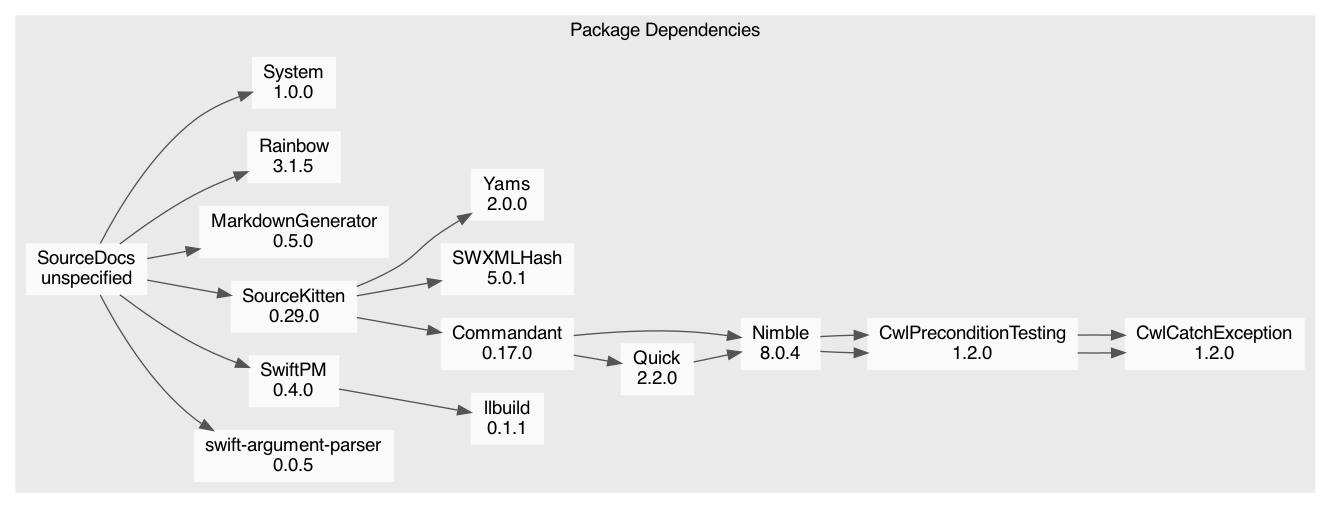
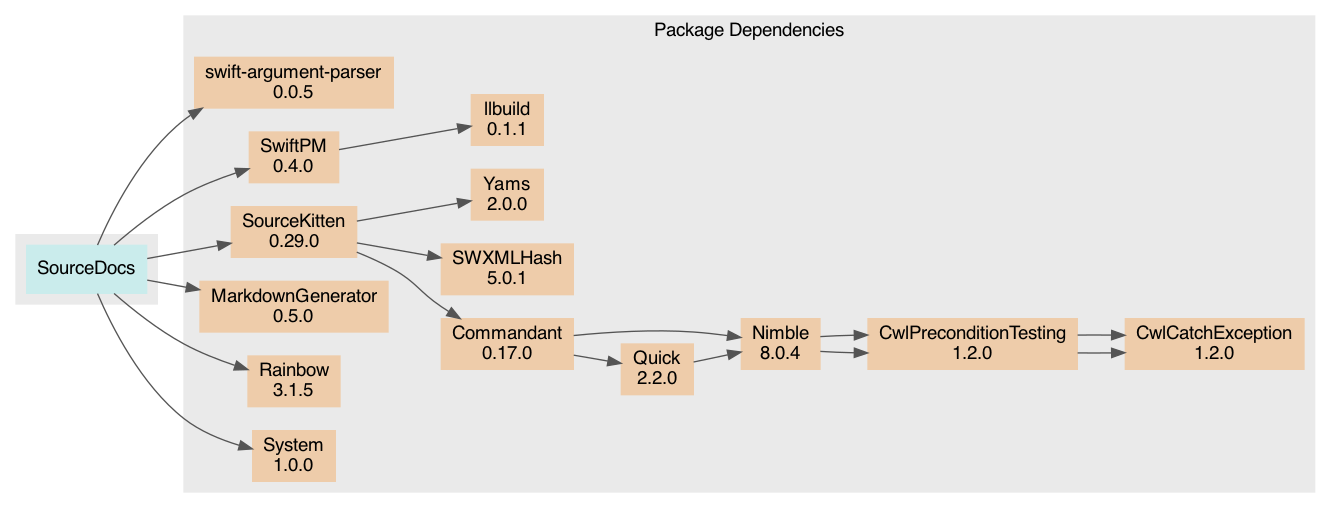
Add flag to toggle clusters on/off (#55)
#### Breaking
- None

#### Enhancements
- Add flag to toggle clusters on/off (for dependency graphs)

#### Bug Fixes
- None

diff --git a/Sources/SourceDocsLib/PackageProcessor/ModuleGraphGenerator.swift b/Sources/SourceDocsLib/PackageProcessor/ModuleGraphGenerator.swift
@@ -11,12 +11,12 @@ final class ModuleGraphGenerator: GraphGenerator {
 
     let basePath: URL
     let packageDump: PackageDump
-    let canRenderDOT: Bool
+    var canRenderDOT = true
+    var clustersEnabled = true
 
-    init(basePath: URL, packageDump: PackageDump, canRenderDOT: Bool) {
+    init(basePath: URL, packageDump: PackageDump) {
         self.basePath = basePath
         self.packageDump = packageDump
-        self.canRenderDOT = canRenderDOT
     }
 
     func run() throws {
@@ -48,6 +48,12 @@ final class ModuleGraphGenerator: GraphGenerator {
             }
         }
 
+        let clusters = [
+            cluster(with: regularNodes, name: "Regular", label: "Program Modules", color: "#caecec"),
+            cluster(with: testNodes, name: "Test", label: "Test Modules", color: "#aaccee"),
+            cluster(with: externalNodes, name: "External", label: "External Dependencies", color: "#eeccaa")
+        ]
+
         return """
         digraph ModuleDependencyGraph {
             rankdir = LR
@@ -55,11 +61,9 @@ final class ModuleGraphGenerator: GraphGenerator {
             node [shape=box, fontname="Helvetica", style=filled]
             edge [color="#545454"]
 
-            \(cluster(with: regularNodes, name: "Regular", label: "Program Modules", color: "#caecec"))
-            \(cluster(with: testNodes, name: "Test", label: "Test Modules", color: "#aaccee"))
-            \(cluster(with: externalNodes, name: "External", label: "External Dependencies", color: "#fafafa"))
+            \(indented: clusters.joined(separator: "\n"))
 
-            \(edges.joined(separator: "\n    "))
+            \(indented: edges.joined(separator: "\n"))
         }
         """
     }
@@ -68,11 +72,14 @@ final class ModuleGraphGenerator: GraphGenerator {
         if nodes.isEmpty {
             return ""
         }
+
+        let clusterPrefix = clustersEnabled ? "cluster" : ""
+
         return """
-        subgraph cluster\(name) {
+        subgraph \(clusterPrefix)\(name) {
             label = "\(label)"
             node [color="\(color)"]
-            \(nodes.joined(separator: "\n    "))
+            \(indented: nodes.joined(separator: "\n"))
         }
         """
     }

diff --git a/Sources/SourceDocsLib/PackageProcessor/DependencyGraphGenerator.swift b/Sources/SourceDocsLib/PackageProcessor/DependencyGraphGenerator.swift
@@ -11,12 +11,12 @@ final class DependencyGraphGenerator: GraphGenerator {
 
     let basePath: URL
     let dependencyTree: PackageDependency
-    let canRenderDOT: Bool
+    var canRenderDOT = true
+    var clustersEnabled = true
 
-    init(basePath: URL, dependencyTree: PackageDependency, canRenderDOT: Bool) {
+    init(basePath: URL, dependencyTree: PackageDependency) {
         self.basePath = basePath
         self.dependencyTree = dependencyTree
-        self.canRenderDOT = canRenderDOT
     }
 
     func run() throws {
@@ -42,16 +42,24 @@ final class DependencyGraphGenerator: GraphGenerator {
     func generateDOT(from dependencyTree: PackageDependency) -> String {
         let edges = extractEdges(from: dependencyTree)
 
+        let clusterPrefix = clustersEnabled ? "cluster" : ""
+
         let graph = """
         digraph PackageDependencyGraph {
             rankdir = LR
             graph [fontname="Helvetica-light", style = filled, color = "#eaeaea"]
-            node [shape=box, fontname="Helvetica", style=filled, color="#fafafa"]
+            node [shape=box, fontname="Helvetica", style=filled]
             edge [color="#545454"]
 
-            subgraph cluster {
+            subgraph \(clusterPrefix)Package {
+                node [color="#caecec"]
+                \(dependencyTree.nodeTitle)
+            }
+
+            subgraph \(clusterPrefix)Dependencies {
                 label = "Package Dependencies"
-                \(edges.joined(separator: "\n        "))
+                node [color="#eeccaa"]
+                \(indented: edges.joined(separator: "\n"))
             }
         }
         """
@@ -69,6 +77,9 @@ final class DependencyGraphGenerator: GraphGenerator {
 
 extension PackageDependency {
     var nodeTitle: String {
-        return "\"\(name)\\n\(version)\""
+        let versionLabel = version == "unspecified" ? "" : "\\n\(version)"
+        return """
+            "\(name)\(versionLabel)"
+            """
     }
 }

diff --git a/Sources/SourceDocsLib/PackageProcessor/PackageProcessor.swift b/Sources/SourceDocsLib/PackageProcessor/PackageProcessor.swift
@@ -11,9 +11,11 @@ import System
 import MarkdownGenerator
 
 public final class PackageProcessor {
-    let inputPath: URL
-    let outputPath: URL
-    let reproducibleDocs: Bool
+    public let inputPath: URL
+    public let outputPath: URL
+    public let reproducibleDocs: Bool
+    public var clustersEnabled: Bool = true
+
     let canRenderDOT: Bool
     let packageDump: PackageDump
     let packageDependencyTree: PackageDependency
@@ -46,10 +48,7 @@ public final class PackageProcessor {
     public func run() throws {
         fputs("Processing package...\n".green, stdout)
         try createOutputFolderIfNeeded()
-        try ModuleGraphGenerator(basePath: outputPath, packageDump: packageDump,
-                                 canRenderDOT: canRenderDOT).run()
-        try DependencyGraphGenerator(basePath: outputPath, dependencyTree: packageDependencyTree,
-                                     canRenderDOT: canRenderDOT).run()
+        try generateGraphs()
 
         let content: [MarkdownConvertible] = [
             MarkdownHeader(title: "Package: **\(packageDump.name)**"),
@@ -65,6 +64,18 @@ public final class PackageProcessor {
         try file.write()
         fputs(" ✔\n".green, stdout)
         fputs("Done 🎉\n".green, stdout)
+    }
+
+    func generateGraphs() throws {
+        let modules = ModuleGraphGenerator(basePath: outputPath, packageDump: packageDump)
+        modules.canRenderDOT = canRenderDOT
+        modules.clustersEnabled = clustersEnabled
+        try modules.run()
+
+        let dependencies = DependencyGraphGenerator(basePath: outputPath, dependencyTree: packageDependencyTree)
+        dependencies.canRenderDOT = canRenderDOT
+        dependencies.clustersEnabled = clustersEnabled
+        try dependencies.run()
     }
 
     func createOutputFolderIfNeeded() throws {

diff --git a/Sources/SourceDocsCLI/PackageCommand.swift b/Sources/SourceDocsCLI/PackageCommand.swift
@@ -12,7 +12,7 @@ import SourceDocsLib
 struct PackageCommand: ParsableCommand {
     static var configuration = CommandConfiguration(
         commandName: "package",
-        abstract: "Generate PACKAGE.md from Swift package description."
+        abstract: "Generate Package.md from Swift package description."
     )
 
     @Option(name: .shortAndLong, default: FileManager.default.currentDirectoryPath,
@@ -33,13 +33,15 @@ struct PackageCommand: ParsableCommand {
     )
     var reproducibleDocs: Bool
 
+    @Flag(name: .shortAndLong, help: "Disable clusters in module dependency diagram")
+    var noClusters: Bool
+
     func run() throws {
         do {
-            try PackageProcessor(
-                inputPath: inputFolder,
-                outputPath: outputFolder,
-                reproducibleDocs: reproducibleDocs
-            ).run()
+            let processor = try PackageProcessor(inputPath: inputFolder, outputPath: outputFolder,
+                                                 reproducibleDocs: reproducibleDocs)
+            processor.clustersEnabled = noClusters == false
+            try processor.run()
         } catch PackageProcessor.Error.invalidInput {
             fputs("Error:".red + " Package.swift not found at \(inputFolder)\n".white, stdout)
         } catch {

diff --git a/Sources/SourceDocsLib/PackageProcessor/GraphGenerator.swift b/Sources/SourceDocsLib/PackageProcessor/GraphGenerator.swift
@@ -19,3 +19,17 @@ extension GraphGenerator {
         return "\"\(string)\""
     }
 }
+
+extension DefaultStringInterpolation {
+    mutating func appendInterpolation(indented string: String) {
+        let indent = String(description.reversed().prefix { " \t".contains($0) })
+        if indent.isEmpty {
+            appendInterpolation(string)
+        } else {
+            let value = string
+                .split(separator: "\n", omittingEmptySubsequences: false)
+                .joined(separator: "\n" + indent)
+            appendLiteral(value)
+        }
+    }
+}

diff --git a/docs/reference/SourceDocsLib/classes/PackageProcessor.md b/docs/reference/SourceDocsLib/classes/PackageProcessor.md
@@ -6,6 +6,31 @@
 public final class PackageProcessor
 ```
 
+## Properties
+### `inputPath`
+
+```swift
+public let inputPath: URL
+```
+
+### `outputPath`
+
+```swift
+public let outputPath: URL
+```
+
+### `reproducibleDocs`
+
+```swift
+public let reproducibleDocs: Bool
+```
+
+### `clustersEnabled`
+
+```swift
+public var clustersEnabled: Bool = true
+```
+
 ## Methods
 ### `init(inputPath:outputPath:reproducibleDocs:)`
 
